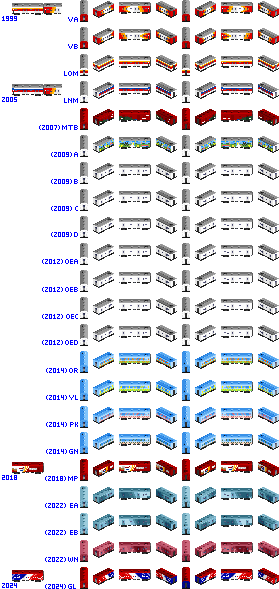
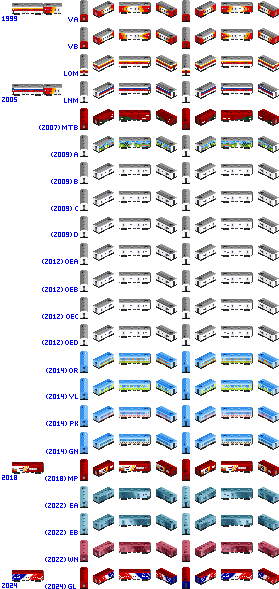
2024.11.01 1.58

Changed region(s): [[0.6595, 0.6418, 1.0, 0.7334], [0.2867, 0.6418, 0.6308, 0.7334], [0.172, 0.7029, 0.2007, 0.7334]]

diff --git a/docs/changelog.md b/docs/changelog.md
@@ -5,11 +5,13 @@
 2단계 : [다음 버전 릴리즈] 삭제 그래픽 적용
 3단계 : [다음 버전 릴리즈] 일괄삭제처리
 
-[1.58] 2024.10.30
+[1.58] 2024.11.01
 [추가]
-- [열차] 고속소화물차 도색 추가
+- [수화물차] 고속소화물차 도색 추가
+- [준고속열차] ITX-청천 (가상열차 / 6, 8량)
 [변경]
 - [그래픽] 건설열차 차장차 변경 및 6량->12량 증가
+- [스팩] GTX 출력조정 4000kw -> 6240kw
 
 [1.57] 2024.10.25
 [추가]

diff --git a/README.md b/README.md
@@ -18,11 +18,13 @@
 ```
 ## 최근 등록 프리 릴리즈
 ```
-[1.58] 2024.10.30
+[1.58] 2024.11.01
 [추가]
-- [열차] 고속소화물차 도색 추가
+- [수화물차] 고속소화물차 도색 추가
+- [준고속열차] ITX-청천 (가상열차 / 6, 8량)
 [변경]
 - [그래픽] 건설열차 차장차 변경 및 6량->12량 증가
+- [스팩] GTX 출력조정 4000kw -> 6240kw
 ```
 
 ## 최근 등록 릴리즈

diff --git a/GRF_ID_List.md b/GRF_ID_List.md
@@ -506,7 +506,10 @@
 |2487|DTX_Koryo_10Car|
 |2488|DTX_Koryo_16Car|
 |2489|DTX_Koryo_20Car|
-|2490~2999|공백|
+|2490|ITX_CheongChan|
+|2491|ITX_CheongChan_6Car|
+|2492|ITX_CheongChan_8Car|
+|2403~2999|공백|
 |3000|[그룹명] Korail_First|
 |3001|Korail_First_4Car|
 |3002|Korail_First_6Car|

diff --git a/sounds/README.md b/sounds/README.md
@@ -92,6 +92,7 @@
 - 부산교통공사 3000호대
 - 대구교통공사 2000호대
 - KTX-초월
+- ITX-청천
 
 ### HYUNDAIROTEMIGBTIPM1start.wav
 - 서울교통공사 2000호대 1·2세대 3VF
